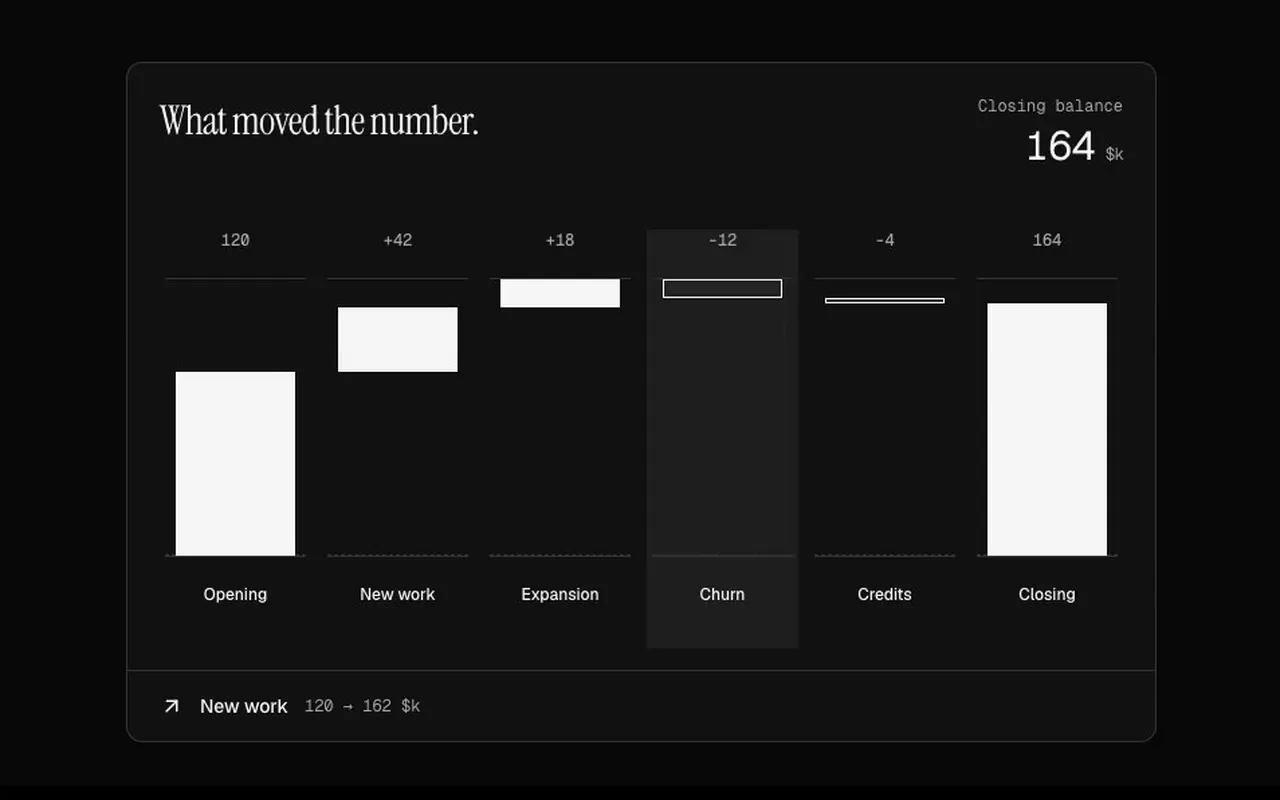
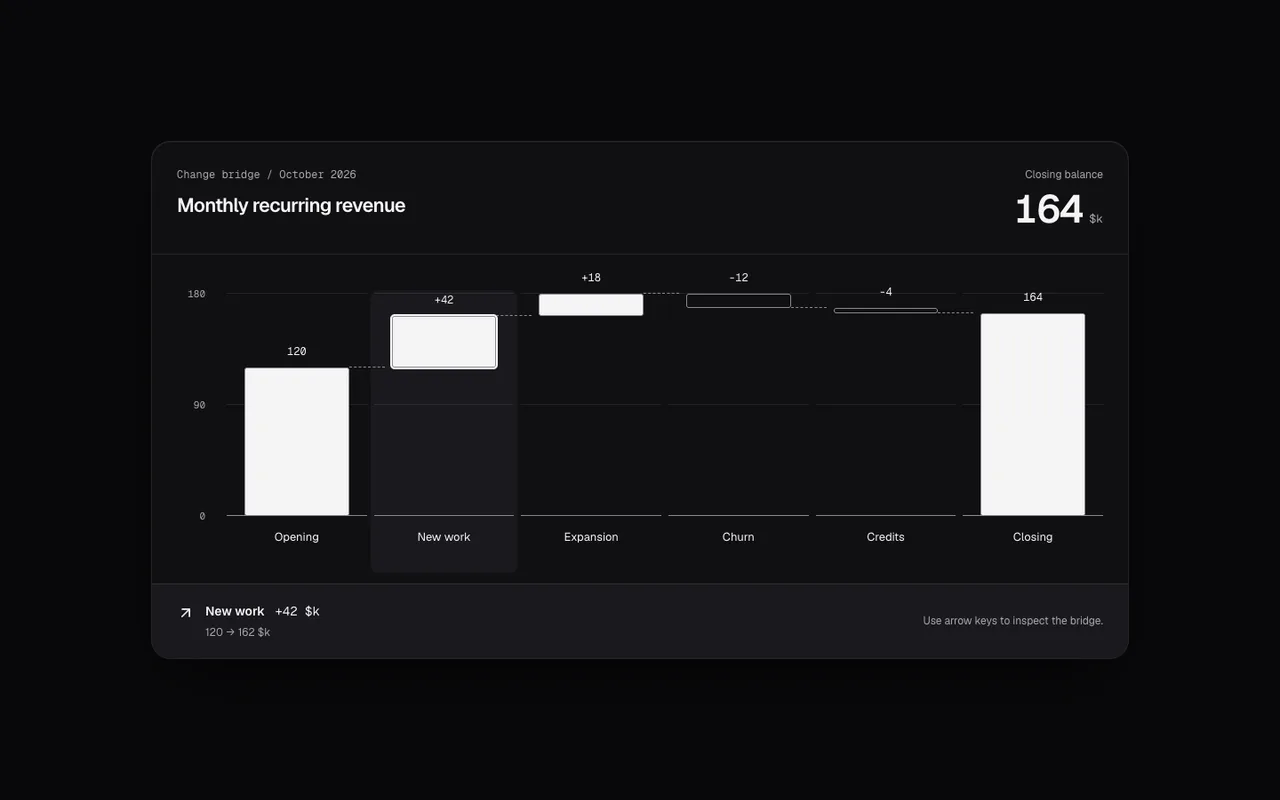
Verify bridge geometry, focus and callback recovery

diff --git a/docs/review/STATUS.md b/docs/review/STATUS.md
@@ -1,6 +1,6 @@
 # Review status
 
-169 components are rebuilt (or, for a few, polished), verified and committed. For each: whether its demo video
+170 components are rebuilt (or, for a few, polished), verified and committed. For each: whether its demo video
 needs re-recording, whether its poster is current, and the state of its browser regression probe.
 
 - **Video**: `new` means `public/previews/<slug>.mp4` still shows the old version. Re-record serially on a quiet machine:
@@ -45,7 +45,7 @@ See [the handoff checkpoint](HANDOFF_TASKS.md#8-final-release-checks) for revisi
 | `mobile-trip-itinerary` | current | current | Next-backed regression, eleven RN-web accessibility states and preview controls pass; keyboard tabs, selected-leg scroll/focus, booking failure/retry, cancellation, supersession, exact payloads, keyed trip replacement and empty/invalid legs covered; poster/guarded film refreshed |
 | `mobile-voice-memo` | current | current | Next-backed regression, twelve RN-web accessibility states and preview controls pass; real waveform drag, keyboard seek bounds, autoplay/transport callbacks, transcript/marker navigation, exact share payloads, fractional/invalid durations, recording resets, readable accents and decimal clock covered; poster/guarded film refreshed |
 
-## Data and charts (11)
+## Data and charts (12)
 
 | Slug | Video | Poster | Probe |
 | --- | --- | --- | --- |
@@ -55,6 +55,7 @@ See [the handoff checkpoint](HANDOFF_TASKS.md#8-final-release-checks) for revisi
 | `chart-sankey-paths` | current | current | Next-backed regression, fourteen theme/state accessibility audits and four controls pass; keyboard node/ribbon traces, exact callbacks, controlled/empty periods, retry retention and resizing, tooltip bounds/descriptions, label contrast and invalid/fractional/large data covered; monochrome poster/guarded film refreshed |
 | `chart-scatter-brush` | current | current | Next-backed regression, twenty theme/state accessibility audits and five controls pass; real draw/move/cancel, keyboard point pinning, exact records, controlled brushes/datasets, empty/retry states, zero/extreme geometry, normalized brush bounds and unit/accent contrast covered; monochrome poster/guarded film refreshed |
 | `chart-sunburst-explorer` | current | current | Next-backed regression, twenty theme/state accessibility audits and five controls pass; pointer/keyboard and hidden-list drills, raw slash-safe paths, focus/retired controls, data replacement/recovery and invalid/cyclic/extreme data covered; monochrome full-viewport film and matching settled Next poster refreshed |
+| `chart-waterfall-bridge` | new | current | Rebuilt shared-scale contribution bridge with connected signed bars and a precise selected-balance readout; 37-mount source review and Next keyboard/retry/pending/negative/zero/invalid/extreme/replacement regression pass. Pending selections retain chart focus, including retry, and extreme axis labels stay on one line; original failures are preserved. The older expansion integration probe also passes. Six widths, 16 state/default accessibility audits, entrance/state captures, two controls, official audit, metadata replay and measured 800px poster/framing pass. Strict registry, TypeScript and all 1,063 unit tests pass. |
 | `data-bulk-action-review` | current | current | Next-backed regression, twenty-eight theme/state accessibility audits, visible-count contrast checks and three controls pass; exact batches, rejection/retry, omitted/conflicting results, held picks, host-removed receipts and read-only handlers covered; monochrome partial-receipt film and settled Next poster refreshed |
 | `data-column-workbench` | current | current | Next-backed regression, twenty-four theme/state accessibility audits and four controls pass; whole-column drag, exact release payloads, keyboard/resize cancellation, focus/shelf retirement, controlled acknowledgement, opaque ids and invalid/empty layouts covered; monochrome 5.8s film and settled Next poster refreshed |
 | `data-filter-history` | current | current | Next-backed regression, thirty theme/state accessibility audits and four controls pass; scrub/restore payloads, independent rename retries, pending locks, late replies, stable snapshot identity, typed rules, readable comparisons and invalid/empty states covered; monochrome full-viewport film and matching settled Next poster refreshed |

diff --git a/docs/review/HANDOFF_TASKS.md b/docs/review/HANDOFF_TASKS.md
@@ -263,6 +263,8 @@ and how to know it's done. Pick any of them up independently. Background, briefs
 
 - Task 1: Query Builder now has a reviewed 3.7s film showing the typed seat threshold, live audience change and exact two-record applied receipt. Complete 1,100px framing matches the paired opening poster. Maximum source gap is 11ms, changed-source delivery is 74.0ms and moving-frame p95 is 17.1ms, with no stalls and all guards retained. Custom/native menu checks also pass for Query Builder and Capacity Planner. 120 listed films remain.
 
+- Task 7: Waterfall Bridge is rebuilt around one shared scale, connected signed contributions and an exact selected-balance readout. Its 37-mount source review and rewritten Next regression cover keyboard inspection, retry, pending locks, callback retirement, zero/negative balances, invalid inputs and finite extremes. Two preserved failures are fixed: pending selection retains keyboard focus, and a scientific axis label cannot split its exponent onto another line. The older expansion integration probe also passes. Six widths, 16 state/default accessibility audits, entrance/state captures, two controls, official audit, metadata replay and measured 800px poster/framing pass. Strict registry, TypeScript and all 1,063 unit tests pass. Its film joins task 1; 28 components and 12 blocks remain in task 7.
+
 ## Ground rules (read first)
 
 - Two repos. Public: `richawo/Design-components-for-AI-agents` (this one). Pro: `richawo/Design-for-AI`, private, cloned
@@ -280,7 +282,7 @@ and how to know it's done. Pick any of them up independently. Background, briefs
 - Browser checks: `node scripts/check-component.mjs <slug> --base=http://localhost:3100 --no-video --keep-going`
   (screenshots at 1440/768/390 and every control flip; read the screenshots it writes to `test-results/check/<slug>/`).
 
-## 1. Re-record demo videos (120 components)
+## 1. Re-record demo videos (121 components)
 
 Every rebuilt component's poster is current but its catalogue film (`public/previews/<slug>.mp4`) still shows the old
 version. Record them one at a time on an otherwise idle machine; the recorder rejects frame stalls under load.
@@ -299,6 +301,7 @@ slug or per small group). Notes:
 
 Slugs:
 
+`chart-waterfall-bridge`
 `editor-font-pairing`, `editor-keyframe-track`
 `editor-layer-stack`, `editor-spacing-inspector`, `editor-storyboard-strip`, `editor-version-restore`
 `three-exploded-assembly`, `three-material-inspector`, `agents-budget-guard`, `agents-dependency-board`
@@ -428,16 +431,16 @@ All nine parked rebuilds are shipped in both repos. Their original `_wip/<slug>`
 | finance-budget-variance | Completed 17 October: Next probe, dark/light accessibility, responsive and entrance/state captures, live demo and refreshed poster pass. |
 | finance-cashflow-dashboard | Completed 17 October: weekly balance and in/out bars, movable payments, independent pending saves, invalid-data guards, selected-week list geometry, Next probe/demo, both-theme accessibility, responsive/state/entrance captures and refreshed poster pass. |
 
-## 7. Continue the review (29 components, then 12 blocks)
+## 7. Continue the review (28 components, then 12 blocks)
 
-Same process as the 169 already done: hold each to the first ~100 components' standard. Briefs:
+Same process as the 170 already done: hold each to the first ~100 components' standard. Briefs:
 `docs/review/REVIEW_BRIEF.md`, `docs/review/SUITE_BRIEF.md` for industry components, suite languages in
 `docs/review/suites/`. Work newest first, about four components per batch, and verify each (build, tsc, tests,
 check-component, your own captures of states and mid-entrance frames, a refreshed poster, a rewritten pro-50 probe for
 industry components).
 
 - **Commerce** is reviewed. Keep `block-commerce-workspace` compatible with its rebuilt parts.
-- **Smaller components** (#151–179): chart-waterfall-bridge, content-release-notes, cards-event-ticket,
+- **Smaller components** (#151–179): content-release-notes, cards-event-ticket,
   chart-slope-comparison, chart-bullet-targets, media-story-deck, devtools-request-waterfall, devtools-json-inspector,
   media-before-after, data-kanban-compact, data-file-explorer, forms-preference-center, date-week-agenda,
   onboarding-setup-checklist, date-booking-slots, input-file-dropzone, input-shortcut-recorder,
